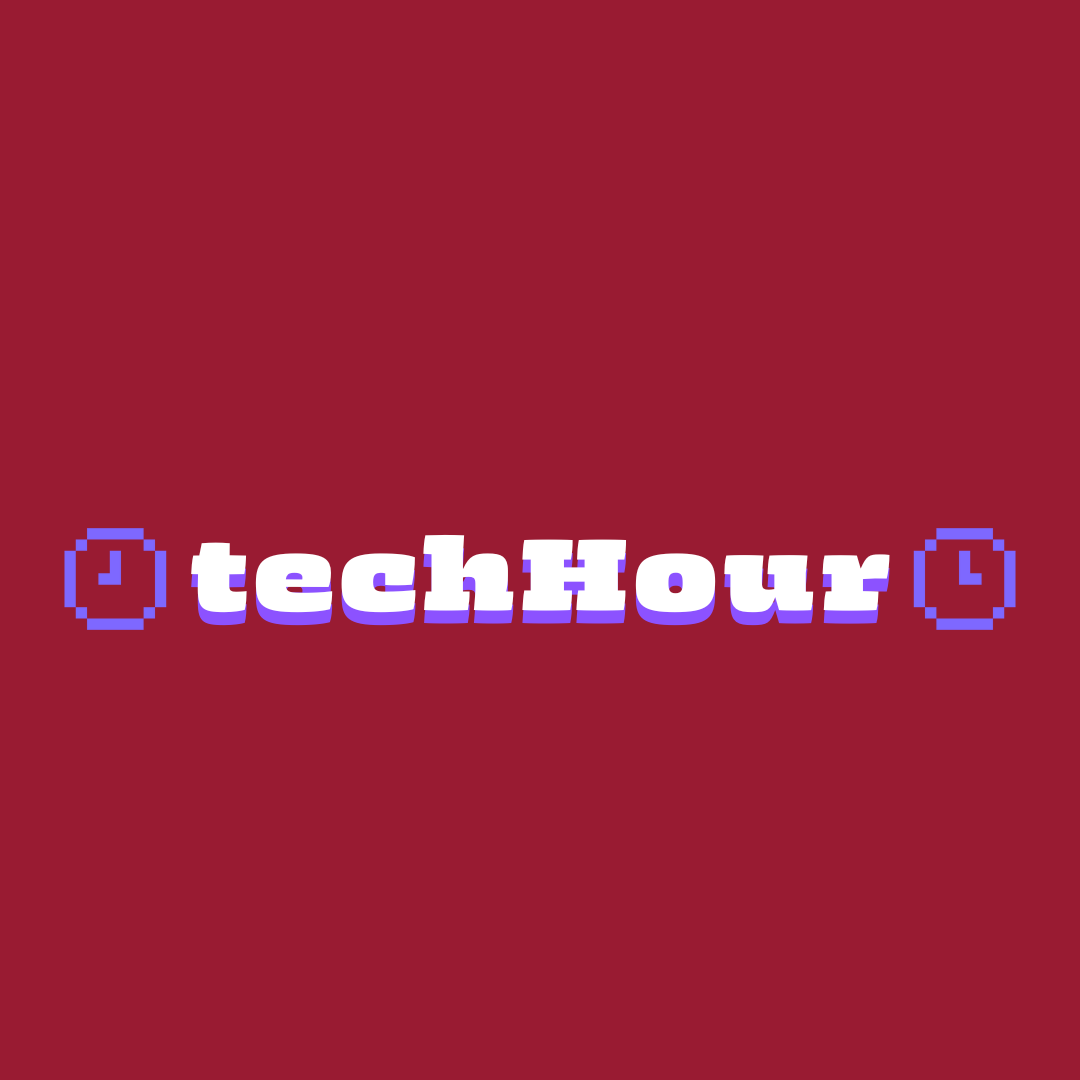
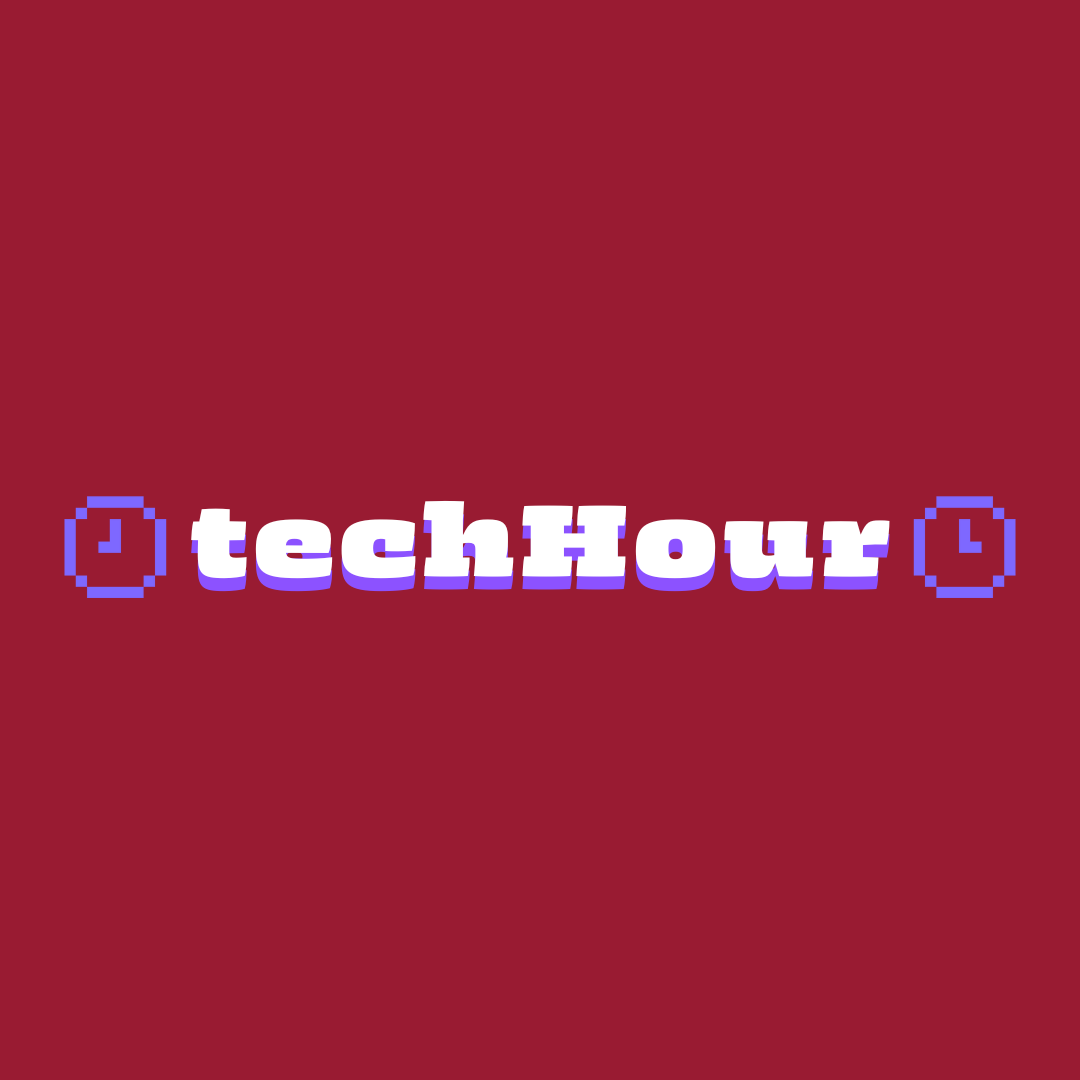
Team Pictures, Cleaning Codebase, and assets

Changed region(s): [[0.0611, 0.4583, 0.9472, 0.5806]]

diff --git a/index.html b/index.html
@@ -75,7 +75,7 @@
         <div class="home-container">
             <div id="home-header"><img src="./assets/img/navbarLogo.png" alt="CICSoft" /></div>
             <h4 id="home-subheader" class="text-white">
-                We aim to serve as a vital bridge, fostering a seamless connection between the computer science university
+                We aim to serve as a vital bridge, fostering a seamless connection between the CS university
                 experience and the dynamic demands of the industry.
             </h4>
         </div>
@@ -116,6 +116,17 @@
         <div class="section-header row justify-content-center align-items-center text-center">Learning Tracks</div>
         <div class="carousel owl-carousel">
             <div class="card">
+                <p class="week-schedule">netNight</p>
+                <img class="card-img" src="./assets/img/syllabus/netNight.png" />
+                <div class="details">
+                    Connect, Converse, Conquer: Master the Art of Networking with NetNight.
+                </div>
+                <div class="details hover-text">
+                    Step into the world of netNight, your gateway to mastering the art of networking in the tech industry. Our sessions are meticulously crafted to arm you with the key strategies needed to build impactful relationships in the tech sphere. 
+                    Unlock the secrets of effective networking with guidance from those who've navigated the path before you.
+                </div>
+            </div>
+            <div class="card">
                 <p class="week-schedule">hackBits</p>
                 <img class="card-img" src="./assets/img/syllabus/hackBits.png" />
                 <div class="details">
@@ -126,18 +137,18 @@
                 </div>
             </div>
             <div class="card">
-                <p class="week-schedule">systemSprint</p>
-                <img src="./assets/img/syllabus/systemSprint.png"/>
+                <p class="week-schedule">techHour</p>
+                <img class="card-img" src="./assets/img/syllabus/techHour.png" />
                 <div class="details">
-                    From Blueprint to Breakthrough: Craft, Collaborate, Create.
+                    Discuss, debate and Dive into the latest tech trends, and shape the future.
                 </div>
                 <div class="details hover-text">
-                    Embark on a journey through the lifecycle of software engineering in our systemSprint sessions. It's not just a meeting; it's a transformative experience that offers a panoramic view of a software engineer's world. Gain insights into the essentials of system design, where theory meets practice, and ideas transform into concrete strategies.
+                    Step into the realm of innovation at Tech Hour, where curiosity meets the cutting edge of technology. It's not just an event; it's a vibrant forum for tech enthusiasts to unravel the mysteries of up-and-coming tools like Blockchain, ChatGPT, and LLM pipelines. Here, we don't just follow trends – we forecast them.
                 </div>
             </div>
             <div class="card">
                 <p class="week-schedule">storyCraft</p>
-                <img src="./assets/img/syllabus/storyCraft.png"/>
+                <img class="card-img" src="./assets/img/syllabus/storyCraft.png"/>
                 <div class="details">
                     Craft your Narrative, Guarantee your success: Ace Behavioral Interviews with confidence and strategy!
                 </div>
@@ -146,23 +157,13 @@
                 </div>
             </div>
             <div class="card">
-                <p class="week-schedule">netNight</p>
-                <img src="./assets/img/syllabus/netNight.png" />
+                <p class="week-schedule">systemSprint</p>
+                <img class="card-img" src="./assets/img/syllabus/systemSprint.png"/>
                 <div class="details">
-                    Connect, Converse, Conquer: Master the Art of Networking with NetNight.
+                    From Blueprint to Breakthrough: Craft, Collaborate, Create.
                 </div>
                 <div class="details hover-text">
-                    Step into the world of netNight, your gateway to mastering the art of networking in the tech industry. Our sessions are meticulously crafted to arm you with the key strategies needed to build impactful relationships in the tech sphere. We bring to you the inspiring stories of alumni who have navigated their career paths deftly, leveraging networking to secure coveted jobs. Unlock the secrets of effective networking with guidance from those who've navigated the path before you.
-                </div>
-            </div>
-            <div class="card">
-                <p class="week-schedule">techHour</p>
-                <img src="./assets/img/syllabus/techHour.png" />
-                <div class="details">
-                    Discuss, debate and Dive into the latest tech trends, and shape the future.
-                </div>
-                <div class="details hover-text">
-                    Step into the realm of innovation at Tech Hour, where curiosity meets the cutting edge of technology. It's not just an event; it's a vibrant forum for tech enthusiasts to unravel the mysteries of up-and-coming tools like Blockchain, ChatGPT, and LLM pipelines. Here, we don't just follow trends – we forecast them.
+                    Embark on a journey through the lifecycle of software engineering in our systemSprint sessions. It's not just a meeting; it's a transformative experience that offers a panoramic view of a software engineer's world. Gain insights into the essentials of system design, where theory meets practice, and ideas transform into concrete strategies.
                 </div>
             </div>
         </div>
@@ -340,13 +341,12 @@
                 </picture>
                 <div class="card-body text-center">
                     <h4 class="card-title">Shiven Patel</h4>
-                    <h5 class="card-text">Core Member</h5>
+                    <h5 class="card-text">President</h5>
                     <a href="https://www.linkedin.com/in/shiven-patel110504/" target="_blank"><img class="team-social-icon" src="./assets/svg/LinkedIn.svg" alt="LinkedIn" /></a>
                 </div>
             </div>
             <div class="card text-white bg-transparent border-0 m-2 p-3 rounded-3" style="width: 21rem">
                 <picture>
-                    <!-- <source srcset="./assets/img/team/webp/shiven_patel.webp" type="image/webp" /> -->
                     <img src="./assets/img/team/jpg/sagnik_pal.jpg" class="card-img-top rounded-circle" alt="Sagnik Pal" />
                 </picture>
                 <div class="card-body text-center">
@@ -357,8 +357,7 @@
             </div>
             <div class="card text-white bg-transparent border-0 m-2 p-3 rounded-3" style="width: 21rem">
                 <picture>
-                    <source srcset="./assets/img/team/webp/shiven_patel.webp" type="image/webp" />
-                    <img src="./assets/img/team/jpg/shiven_patel.jpg" class="card-img-top rounded-circle" alt="Ayushman Satpathy" />
+                    <img src="./assets/img/team/jpg/Ayushman.jpg" class="card-img-top rounded-circle" alt="Ayushman Satpathy" />
                 </picture>
                 <div class="card-body text-center">
                     <h4 class="card-title">Ayushman Satpathy</h4>
@@ -368,7 +367,6 @@
             </div>
             <div class="card text-white bg-transparent border-0 m-2 p-3 rounded-3" style="width: 21rem">
                 <picture>
-                    <!-- <source srcset="./assets/img/team/webp/shiven_patel.webp" type="image/webp" /> -->
                     <img src="./assets/img/team/jpg/trung_dang.jpeg" class="card-img-top rounded-circle" alt="Trung Dang" />
                 </picture>
                 <div class="card-body text-center">
@@ -413,7 +411,7 @@
                     </div>
                 </div>
                 <div class="mb-3">
-                    <label for="labSuggestionQuestion" class="form-label">Message <span style="color: red">*</span></label>
+                    <label for="labSuggestionQuestion" class="form-label">What do you think about ouor Club? <span style="color: red">*</span></label>
                     <textarea required class="form-control" id="labSuggestionQuestion"></textarea>
                 </div>
                 <div class="container text-center">

diff --git a/assets/css/main.css b/assets/css/main.css
@@ -81,7 +81,7 @@ body {
     display: flex;
     padding-top: 0.5rem;
     padding-bottom: -0.5rem;
-    margin: 1.5rem;
+    margin: 0;
     color: white;
     font-size: 3rem;
     border-radius: 1.5em;
@@ -396,7 +396,7 @@ body {
 .card:hover .hover-text {
     display: block;
 }
-/* .card:hover .card-img, */
+.card:hover .card-img,
 .card:hover .non-hover-text {
     display: none;
 }

diff --git a/assets/css/slider.css b/assets/css/slider.css
@@ -10,7 +10,7 @@
 
 #syllabus .card {
     display: flex;
-    min-height: 600px;
+    min-height: 550px;
     width: auto;
     background-color: #211d1e;
     border-radius: 10px;
